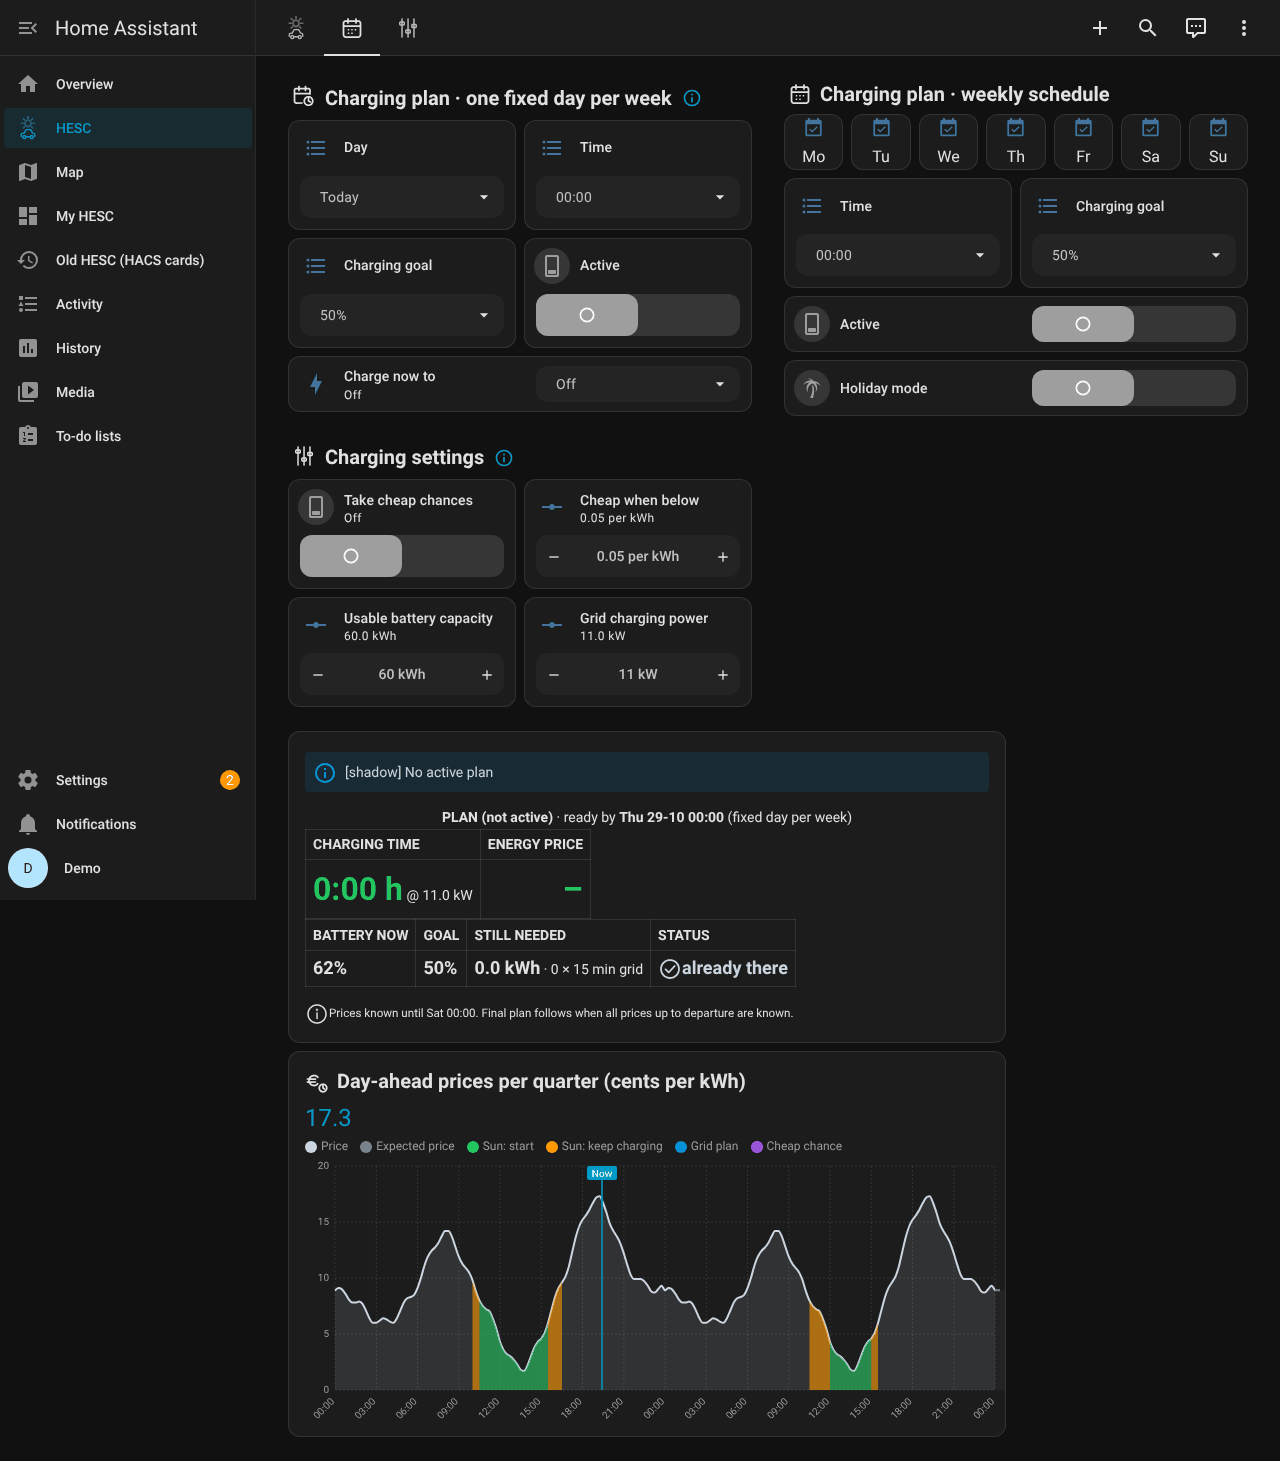
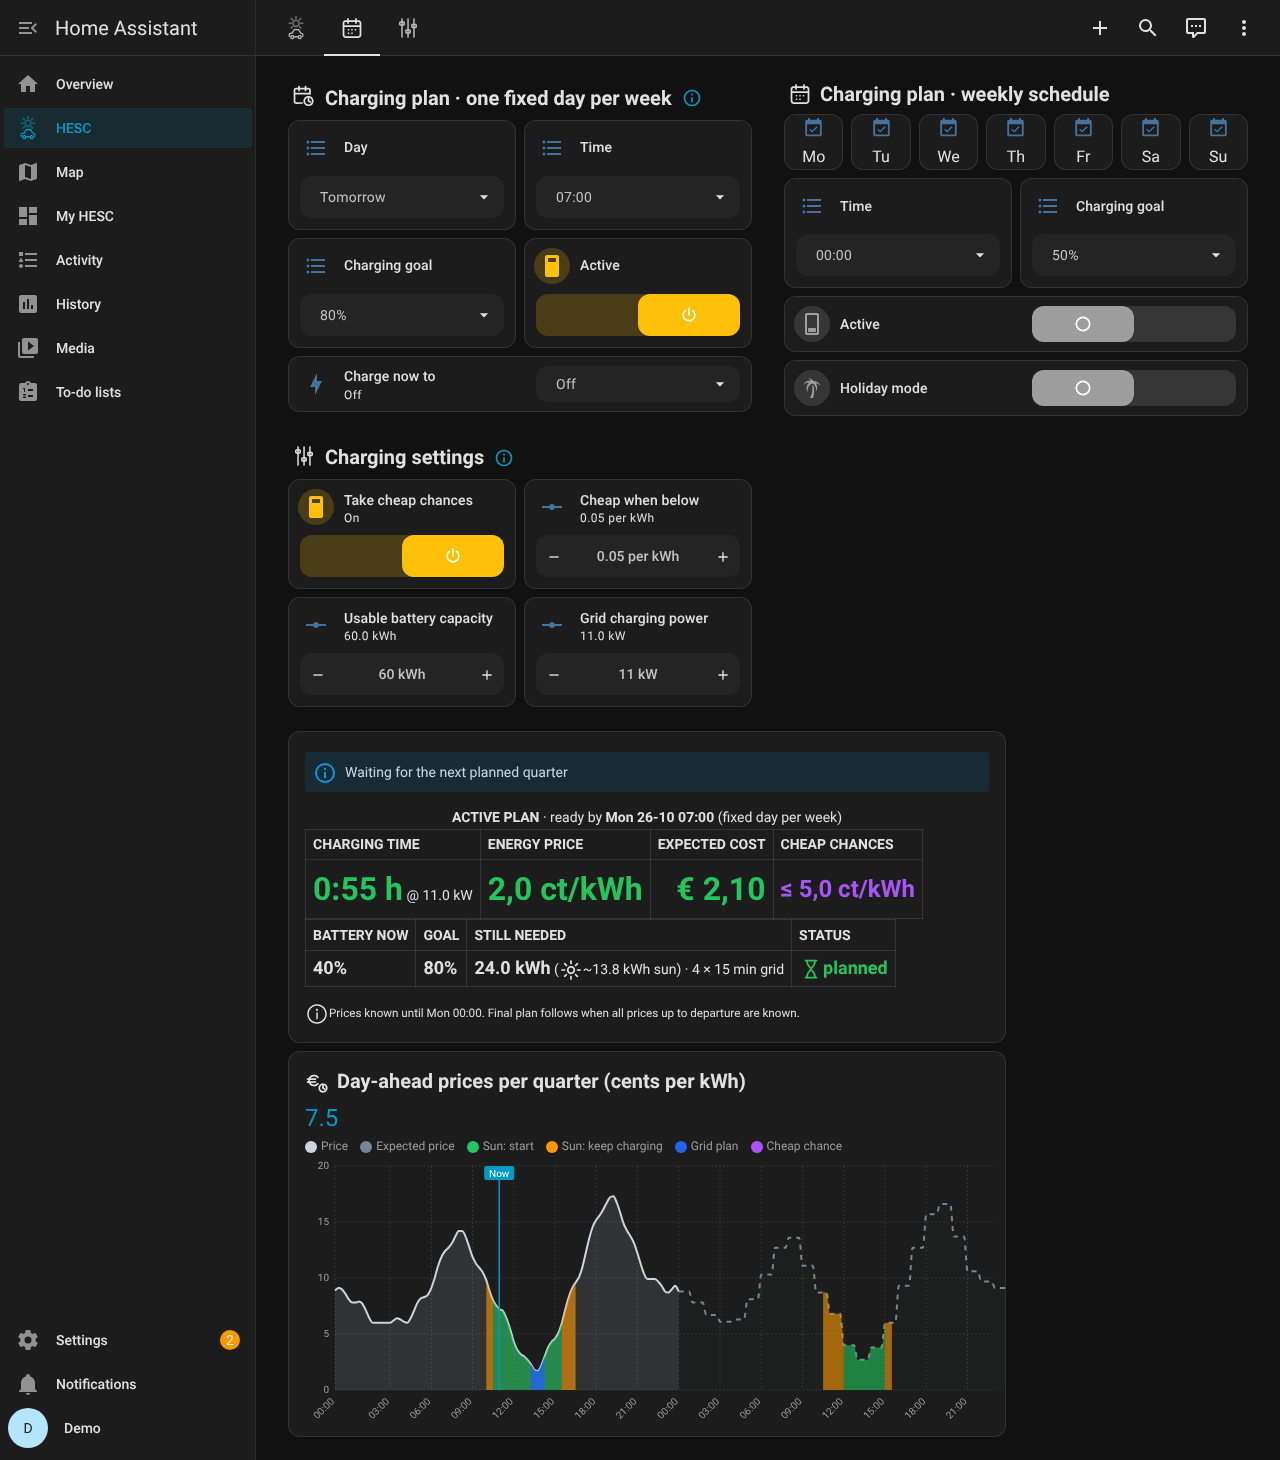
Add files via upload

diff --git a/custom_components/hesc/coordinator.py b/custom_components/hesc/coordinator.py
@@ -971,8 +971,10 @@ class HescCoordinator(DataUpdateCoordinator[Inputs]):
             st, attrs = self._apply_charge_now(get, st, attrs)
         self.computed["sensor.hesc_charge_plan"] = {"state": st, "attributes": attrs}
         get = self._getter(self._view())
-        prev = self.computed.get("sensor.hesc_expected_charge_cost", {}).get("state")
-        st, attrs = plan.planned_cost(get, prev)
+        # 3.1.0: v2's "display" showed the previous amount (this.state) and lagged one update behind;
+        # the plan card now shows it next to the price, so it shows the amount just worked out
+        st, _ = plan.planned_cost(get, None)
+        st, attrs = plan.planned_cost(get, st)
         self.computed["sensor.hesc_expected_charge_cost"] = {"state": st, "attributes": attrs}
 
     # ---- since 3.0.0: charge now to a goal (charge_now.py) ----------------------------

diff --git a/custom_components/hesc/const.py b/custom_components/hesc/const.py
@@ -11,7 +11,7 @@ from typing import Final
 
 DOMAIN: Final = "hesc"
 NAME: Final = "HESC v3"
-VERSION: Final = "3.1.0"  # same as manifest.json (tests/test_manifest_version)
+VERSION: Final = "3.1.1"  # same as manifest.json (tests/test_manifest_version)
 BUILD_DATE: Final = "25-10-2026"  # date of this build, shown next to the version under the logo on Main; set to the release date when a release is made
 
 # v2 runs its decision round every 30 s; v3 reads its inputs at the same pace.

diff --git a/docs/06-dashboard.de.md b/docs/06-dashboard.de.md
@@ -90,7 +90,7 @@ Sonnenuntergang, und wie viele Stunden.
 
 ## Ladeplan
 
-![Charge plan](images/charge-plan.png)
+![Charge plan](images/charge-plan.de.png)
 
 - **Ladeplan · ein fester Tag pro Woche:** ein Tag, eine Uhrzeit und ein Ladeziel, zum Beispiel
   100 % am Freitag um 08:00. Er kommt jede Woche wieder. *Aktiv* schaltet ihn ein oder aus.
@@ -113,9 +113,11 @@ Sonnenuntergang, und wie viele Stunden.
   - *Nutzbare Akkukapazität* und *Ladeleistung aus dem Netz* — was dein Auto wirklich fasst und was
     deine Wallbox aus dem Netz liefert.
 - **Status Ladeplan:** was HESC für welchen Plan und bis wann tut: Ladezeit, durchschnittlicher
-  Strompreis, Ladestand jetzt, Ziel, was noch nötig ist, und der Status.
-- **Preisgrafik:** der Preis für heute und morgen als glatte Linie: hellgrau = der Preis, dunkelgrau
-  = ein erwarteter Preis (die echten Preise für morgen sind noch nicht bekannt). Farbige Flächen
+  Strompreis, erwartete Kosten, Ladestand jetzt, Ziel, was noch nötig ist, und der Status. Sind die
+  günstigen Gelegenheiten an, steht deine Preisgrenze in Lila daneben. Ohne aktiven Plan sagt die
+  Karte nur *Kein Ladeplan aktiv*.
+- **Preisgrafik:** der Preis für heute und morgen als glatte Linie: hellgrau = der Preis, gestrichelt mit
+  fast leerer Fläche = ein erwarteter Preis (die echten Preise für morgen sind noch nicht bekannt). Farbige Flächen
   unter der Linie zeigen, wann es sich lohnt, das Auto angeschlossen zu haben: grün = genug Sonne
   erwartet, um mit Sonne zu starten (*Sonne: starten*), bernsteinfarben = genug Sonne zum
   Weiterladen, kein neuer Start (*Sonne: weiterladen*), blau = Netzplan, lila gestreift = eine

diff --git a/docs/06-dashboard.nl.md b/docs/06-dashboard.nl.md
@@ -86,7 +86,7 @@ zonsondergang, en hoeveel uur.
 
 ## Laadplan
 
-![Charge plan](images/charge-plan.png)
+![Charge plan](images/charge-plan.nl.png)
 
 - **Laadplan · één vaste dag per week:** een dag, een tijd en een laaddoel, bijvoorbeeld 100 %
   op vrijdag om 08:00. Komt elke week terug. *Actief* zet hem aan of uit.
@@ -106,9 +106,11 @@ zonsondergang, en hoeveel uur.
   - *Bruikbare accucapaciteit* en *Laadvermogen van het net* — wat je auto echt kan opslaan en wat je
     laadpaal van het net levert.
 - **Planstatus:** wat HESC doet voor welk plan en tot wanneer: laadtijd, gemiddelde
-  energieprijs, accustand nu, doel, wat er nog nodig is en de status.
+  energieprijs, verwachte kosten, accustand nu, doel, wat er nog nodig is en de status. Staan de
+  goedkope kansen aan, dan staat je prijsgrens erbij in paars. Zonder actief plan zegt de kaart alleen
+  *Geen laadplan actief*.
 - **Prijsgrafiek:** de prijs voor vandaag en morgen als vloeiende lijn: lichtgrijs = de prijs,
-  donkergrijs = een verwachte prijs (de echte prijzen van morgen zijn nog niet bekend). Gekleurde
+  gestippeld met een bijna leeg vlak = een verwachte prijs (de echte prijzen van morgen zijn nog niet bekend). Gekleurde
   vlakken onder de lijn laten zien wanneer het loont om de auto aan te sluiten: groen = genoeg
   zon verwacht om op zon te starten (*Zon: starten*), amber = genoeg zon om door te laden, geen
   nieuwe start (*Zon: doorladen*), blauw = gepland netladen (*Netplan*), paars gestreept =

diff --git a/docs/06-dashboard.md b/docs/06-dashboard.md
@@ -107,9 +107,11 @@ how many hours.
   - *Usable battery capacity* and *Grid charging power* — what your car really holds and what
     your charger delivers from the grid.
 - **Plan status:** what HESC is doing for which plan and until when: charging time, average
-  energy price, battery level now, goal, what is still needed and the status.
+  energy price, expected cost, battery level now, goal, what is still needed and the status. With
+  cheap chances on, your price limit shows in purple. Without an active plan the card only says
+  *No charging plan active*.
 - **Price chart:** the price for today and tomorrow as a smooth line: light grey = the price,
-  dark grey = an expected price (tomorrow's real prices are not known yet). Coloured areas under
+  dashed with an almost empty area = an expected price (tomorrow's real prices are not known yet). Coloured areas under
   the line show when it pays to have the car connected: green = enough sun expected to start
   charging on sun (*Sun: start*), amber = enough sun to keep charging, no new start (*Sun: keep
   charging*), blue = grid plan, purple striped = a cheap chance. When a cheap chance falls in a

diff --git a/CHANGELOG.md b/CHANGELOG.md
@@ -1,5 +1,14 @@
 # Changelog
 
+## 3.1.1 · 25-10-2026
+
+- The expected cost in the charge plan card shows the right amount at once. Before, it could
+  show the previous amount (for example *€ 0,00*) for one update after a restart or a plan change.
+- German: shorter column titles in the charge plan card (*ERW. KOSTEN*, *GÜNSTIG*), so the card
+  no longer wraps.
+- Manual: new pictures of the charge plan page, now in English, Dutch and German, and the plan
+  card and price chart described as they are since 3.1.0.
+
 ## 3.1.0 · 25-10-2026
 
 **Charge plan card**
